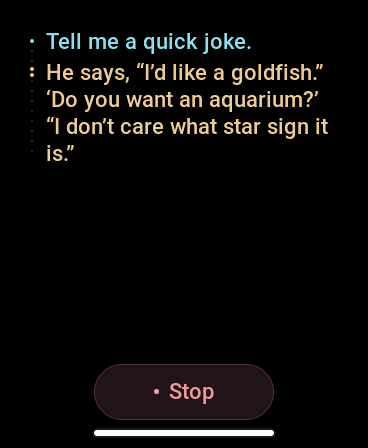
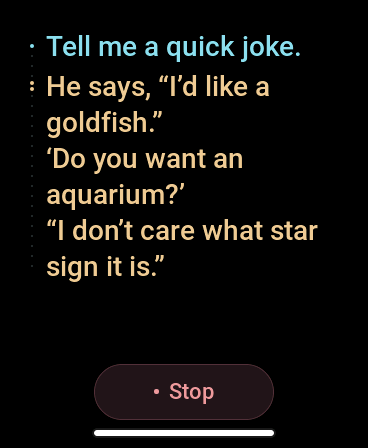
[ui] Enlarge opening Start buttons and transcript text

Changed region(s): [[0.1196, 0.0625, 0.8967, 0.625], [0.0598, 0.0938, 0.0897, 0.2188]]

diff --git a/examples/waveshare/LiveVoice.cpp b/examples/waveshare/LiveVoice.cpp
@@ -30,12 +30,13 @@ constexpr uint32_t background = 0x000000, foreground = 0xF0F0ED;
 constexpr uint32_t muted = 0xA0A4A9, user_color = 0x8EDCE9,
                    assistant_color = 0xEDCA93;
 constexpr int rail_gutter = 18, caption_line_space = 0, caption_turn_gap = 4;
+const lv_font_t &caption_font = live_font_28;
 
 bool caption_glyph(uint32_t codepoint) {
   lv_font_glyph_dsc_t dsc{};
   // Probe this static subset directly so an unsupported character does not
   // produce a missing-glyph warning on every streaming snapshot.
-  return live_font_22.get_glyph_dsc(&live_font_22, &dsc, codepoint, 0) &&
+  return caption_font.get_glyph_dsc(&caption_font, &dsc, codepoint, 0) &&
          !dsc.is_placeholder;
 }
 
@@ -235,7 +236,7 @@ lv_obj_t *button(lv_obj_t *parent, lv_event_cb_t cb, void *ctx) {
   lv_obj_set_style_bg_opa(b, LV_OPA_COVER, 0);
   lv_obj_set_style_border_width(b, 1, 0);
   lv_obj_set_style_border_opa(b, LV_OPA_COVER, 0);
-  lv_obj_set_style_radius(b, 28, 0);
+  lv_obj_set_style_radius(b, LV_RADIUS_CIRCLE, 0);
   lv_obj_set_flex_flow(b, LV_FLEX_FLOW_ROW);
   lv_obj_set_flex_align(b, LV_FLEX_ALIGN_CENTER, LV_FLEX_ALIGN_CENTER,
                         LV_FLEX_ALIGN_CENTER);
@@ -397,21 +398,21 @@ bool LiveVoice::run() {
       LV_EVENT_DRAW_MAIN, this);
   for (auto &label : transcripts_) {
     label = lv_label_create(transcript_area_);
-    lv_obj_set_size(label, LV_PCT(100), live_font_22.line_height);
+    lv_obj_set_size(label, LV_PCT(100), caption_font.line_height);
     lv_obj_set_x(label, rail_gutter);
     lv_label_set_text(label, "");
     lv_label_set_long_mode(label, LV_LABEL_LONG_CLIP);
-    lv_obj_set_style_text_font(label, &live_font_22, 0);
+    lv_obj_set_style_text_font(label, &caption_font, 0);
     lv_obj_set_style_text_line_space(label, caption_line_space, 0);
     lv_obj_add_flag(label, LV_OBJ_FLAG_HIDDEN);
   }
   transcript_revision_ = UINT32_MAX;
   transcript_page_ = {};
   transcript_width_ = transcript_height_ = 0;
-  auto *footer = lv_obj_create(content);
-  lv_obj_remove_style_all(footer);
-  lv_obj_remove_flag(footer, LV_OBJ_FLAG_SCROLLABLE);
-  lv_obj_set_size(footer, LV_PCT(100), 56);
+  footer_ = lv_obj_create(content);
+  lv_obj_remove_style_all(footer_);
+  lv_obj_remove_flag(footer_, LV_OBJ_FLAG_SCROLLABLE);
+  lv_obj_set_size(footer_, LV_PCT(100), 56);
   // Keep the footer's layout space, but parent the button to the screen so
   // its invisible touch padding is not clipped by the footer or content.
   control_ = button(
@@ -439,6 +440,7 @@ bool LiveVoice::run() {
   lv_label_set_text(control_text_, "Start");
   lv_obj_set_style_text_font(control_text_, &live_font_22, 0);
   control_mode_ = -1;
+  control_large_ = false;
   timer_ = lv_timer_create(
       [](lv_timer_t *timer) {
         static_cast<LiveVoice *>(lv_timer_get_user_data(timer))->refresh();
@@ -453,7 +455,7 @@ void LiveVoice::drawRail(lv_event_t *event) const {
   lv_area_t a;
   lv_obj_get_coords(rail_, &a);
   auto *layer = lv_event_get_layer(event);
-  const int center = live_font_22.line_height / 2;
+  const int center = caption_font.line_height / 2;
   for (int y = center; y < rail_height_; y += 10) {
     bool marker = false;
     for (unsigned i = 0; i < rail_count_; ++i)
@@ -490,6 +492,15 @@ void LiveVoice::refresh() {
   const bool show_usage = !testing && !s.busy && s.usage.started;
   const bool show_captions = connected || testing;
   const bool show_welcome = !show_captions && !show_usage;
+  const bool large_start = show_welcome && !s.busy;
+  if (large_start != control_large_) {
+    // Reserve only the compact footer during calls and on the usage page.
+    lv_obj_set_size(control_, large_start ? 260 : 180, large_start ? 80 : 56);
+    lv_obj_set_height(footer_, large_start ? 80 : 56);
+    lv_obj_set_style_text_font(control_text_,
+                              large_start ? &live_font_28 : &live_font_22, 0);
+    control_large_ = large_start;
+  }
   show(title_, show_usage);
   show(usage_status_, show_usage && !s.usage.seconds_final);
   show(welcome_, show_welcome);
@@ -554,7 +565,7 @@ void LiveVoice::refresh() {
   const int width = lv_obj_get_content_width(transcript_area_) - rail_gutter;
   const int height = lv_obj_get_content_height(transcript_area_);
   if (show_captions && width > 0 &&
-      height >= live_font_22.line_height &&
+      height >= caption_font.line_height &&
       (captions_changed || width != transcript_width_ ||
        height != transcript_height_)) {
     const int64_t render_started = esp_timer_get_time();
@@ -563,10 +574,10 @@ void LiveVoice::refresh() {
     attrs.max_width = width;
     attrs.line_space = caption_line_space;
     transcript_page_.update(
-        transcript_snapshot_, height, live_font_22.line_height,
+        transcript_snapshot_, height, caption_font.line_height,
         caption_line_space, caption_turn_gap, [&](const char *text) {
           return lv_text_get_next_line(text, LV_TEXT_LEN_MAX,
-                                       &live_font_22, nullptr, &attrs);
+                                       &caption_font, nullptr, &attrs);
         });
     unsigned line_index = 0;
     int y = 0;
@@ -585,7 +596,7 @@ void LiveVoice::refresh() {
         const size_t n =
             offset < length
                 ? lv_text_get_next_line(block.text + offset, LV_TEXT_LEN_MAX,
-                                        &live_font_22, nullptr, &attrs)
+                                        &caption_font, nullptr, &attrs)
                 : 0;
         char text[LIVE_TRANSCRIPT_BYTES];
         const size_t bytes = std::min(n, length - offset);
@@ -608,7 +619,7 @@ void LiveVoice::refresh() {
                          color))
           lv_obj_set_style_text_color(label, color, 0);
         lv_obj_remove_flag(label, LV_OBJ_FLAG_HIDDEN);
-        y += live_font_22.line_height;
+        y += caption_font.line_height;
         if (!bytes)
           break;
         offset += bytes;
@@ -622,7 +633,7 @@ void LiveVoice::refresh() {
     rail_count_ = transcript_page_.count;
     const int rail_height =
         std::max(0, y - caption_turn_gap -
-                        int(live_font_22.line_height) / 2 + 1);
+                        int(caption_font.line_height) / 2 + 1);
     rail_changed |= rail_height_ != rail_height;
     rail_height_ = rail_height;
     if (rail_changed)
@@ -691,12 +702,12 @@ void LiveVoice::testCaptions(bool glyphs) {
           if (codepoint == '\n')
             continue;
           lv_font_glyph_dsc_t dsc{};
-          if (!lv_font_get_glyph_dsc(&live_font_22, &dsc, codepoint, 0) ||
+          if (!lv_font_get_glyph_dsc(&caption_font, &dsc, codepoint, 0) ||
               dsc.is_placeholder)
             ++missing;
-          else if (dsc.ofs_y < -live_font_22.base_line ||
+          else if (dsc.ofs_y < -caption_font.base_line ||
                    dsc.ofs_y + dsc.box_h >
-                       live_font_22.line_height - live_font_22.base_line)
+                       caption_font.line_height - caption_font.base_line)
             ++clipped;
         }
       }
@@ -773,7 +784,7 @@ bool LiveVoice::close() {
     timer_ = nullptr;
   }
   title_ = status_ = usage_status_ = usage_ = transcript_area_ = control_ =
-      control_text_ = control_dot_ = welcome_ = welcome_title_ = rail_ =
+      control_text_ = control_dot_ = welcome_ = welcome_title_ = rail_ = footer_ =
           nullptr;
   rail_count_ = 0;
   rail_height_ = 0;
@@ -784,6 +795,7 @@ bool LiveVoice::close() {
     label = nullptr;
   transcript_revision_ = UINT32_MAX;
   control_mode_ = -1;
+  control_large_ = false;
   caption_test_until_ = 0;
   return true;
 }

diff --git a/examples/m5stack/main/View.cpp b/examples/m5stack/main/View.cpp
@@ -17,7 +17,8 @@ static_assert(LVGL_VERSION_MAJOR == 9 && LVGL_VERSION_MINOR == 6 &&
 namespace board {
 namespace {
 constexpr int CONTENT_HEIGHT = 176, LINE_WIDTH = 292;
-const lv_font_t *font = &live_font_18;
+const lv_font_t *caption_font = &live_font_22;
+bool control_large = false;
 lv_obj_t *welcome, *status_label, *captions, *usage, *button, *button_text;
 lv_obj_t *lines[10], *dots[10], *values[live_usage_view::ROW_COUNT];
 live_caption_view::Page page;
@@ -45,7 +46,7 @@ lv_obj_t *label(lv_obj_t *parent, int x, int y, int w, uint32_t color) {
   auto *obj = lv_label_create(parent);
   lv_obj_set_pos(obj, x, y);
   lv_obj_set_width(obj, w);
-  lv_obj_set_style_text_font(obj, font, 0);
+  lv_obj_set_style_text_font(obj, &live_font_18, 0);
   lv_obj_set_style_text_color(obj, lv_color_hex(color), 0);
   lv_obj_set_style_text_line_space(obj, 0, 0);
   lv_label_set_long_mode(obj, LV_LABEL_LONG_CLIP);
@@ -54,7 +55,8 @@ lv_obj_t *label(lv_obj_t *parent, int x, int y, int w, uint32_t color) {
 }
 bool glyph(uint32_t codepoint) {
   lv_font_glyph_dsc_t dsc{};
-  return font->get_glyph_dsc(font, &dsc, codepoint, 0) && !dsc.is_placeholder;
+  return caption_font->get_glyph_dsc(caption_font, &dsc, codepoint, 0) &&
+         !dsc.is_placeholder;
 }
 void press(lv_event_t *) {
   live_esp32_status_t state{};
@@ -70,10 +72,10 @@ void render_captions() {
   auto next_line = [&](const char *value) {
     lv_text_attributes_t attributes{};
     attributes.max_width = LINE_WIDTH;
-    return lv_text_get_next_line(value, LV_TEXT_LEN_MAX, font, nullptr,
+    return lv_text_get_next_line(value, LV_TEXT_LEN_MAX, caption_font, nullptr,
                                  &attributes);
   };
-  page.update(snapshot, CONTENT_HEIGHT, font->line_height, 0, 2, next_line);
+  page.update(snapshot, CONTENT_HEIGHT, caption_font->line_height, 0, 2, next_line);
   unsigned index = 0;
   int y = 0;
   for (unsigned i = 0; i < page.count; ++i) {
@@ -100,13 +102,13 @@ void render_captions() {
       lv_obj_set_y(lines[index], y);
       lv_obj_set_style_text_color(lines[index], color, 0);
       show(lines[index], true);
-      lv_obj_set_y(dots[index], y + font->line_height / 2 - 2);
+      lv_obj_set_y(dots[index], y + caption_font->line_height / 2 - 2);
       lv_obj_set_style_bg_color(dots[index],
                                 first ? color : lv_color_hex(0x243236), 0);
       show(dots[index], true);
       first = false;
       ++index;
-      y += font->line_height;
+      y += caption_font->line_height;
       if (!n)
         break;
       offset += n;
@@ -147,7 +149,8 @@ void view_init() {
   usage = area(screen, 12, 10, 296, CONTENT_HEIGHT);
   for (unsigned i = 0; i < std::size(lines); ++i) {
     lines[i] = label(captions, 12, 0, LINE_WIDTH, 0xE5C78F);
-    lv_obj_set_height(lines[i], font->line_height);
+    lv_obj_set_height(lines[i], caption_font->line_height);
+    lv_obj_set_style_text_font(lines[i], caption_font, 0);
     dots[i] = area(captions, 1, 0, 3, 3);
     lv_obj_set_style_radius(dots[i], LV_RADIUS_CIRCLE, 0);
     lv_obj_set_style_bg_opa(dots[i], LV_OPA_COVER, 0);
@@ -162,7 +165,8 @@ void view_init() {
   button = lv_button_create(screen);
   lv_obj_set_size(button, 156, 40);
   lv_obj_set_pos(button, 82, 193);
-  lv_obj_set_style_radius(button, 20, 0);
+  lv_obj_set_style_radius(button, LV_RADIUS_CIRCLE, 0);
+  control_large = false;
   lv_obj_set_style_shadow_width(button, 0, 0);
   lv_obj_set_style_border_width(button, 1, 0);
   lv_obj_set_ext_click_area(button, 10);
@@ -181,6 +185,14 @@ void view_update() {
     return;
   const bool transcripts = state.active;
   const bool final = !state.busy && state.usage.started;
+  const bool large_start = !transcripts && !final && !state.busy;
+  if (large_start != control_large) {
+    lv_obj_set_size(button, large_start ? 240 : 156, large_start ? 64 : 40);
+    lv_obj_set_pos(button, large_start ? 40 : 82, large_start ? 169 : 193);
+    lv_obj_set_style_text_font(button_text,
+                              large_start ? &live_font_22 : &live_font_18, 0);
+    control_large = large_start;
+  }
   show(welcome, !transcripts && !final);
   show(status_label, !transcripts && !final);
   show(captions, transcripts);

diff --git a/examples/waveshare/LiveVoice.hpp b/examples/waveshare/LiveVoice.hpp
@@ -31,7 +31,7 @@ private:
   lv_obj_t *usage_ = nullptr;
   lv_obj_t *usage_values_[live_usage_view::ROW_COUNT]{};
   lv_obj_t *usage_note_ = nullptr;
-  // More than the physical display can fit at the fixed 22-pixel font size.
+  // More than the physical display can fit at the 28-pixel caption font size.
   lv_obj_t *transcripts_[24]{};
   lv_obj_t *transcript_area_ = nullptr;
   lv_obj_t *rail_ = nullptr;
@@ -45,6 +45,8 @@ private:
   uint32_t caption_test_until_ = 0, caption_test_step_ = 0;
   bool caption_glyph_test_ = false;
   uint32_t caption_test_overflows_ = 0, caption_test_render_max_us_ = 0;
+  lv_obj_t *footer_ = nullptr;
+  bool control_large_ = false;
   lv_obj_t *control_ = nullptr, *control_text_ = nullptr,
            *control_dot_ = nullptr;
   int control_mode_ = -1;

diff --git a/examples/common/fonts/README.md b/examples/common/fonts/README.md
@@ -2,7 +2,7 @@
 
 The Waveshare and M5Stack Live Voice apps use **Roboto Medium 2.138**, licensed
 under [Apache-2.0](LICENSE). These are generated, uncompressed 4-bpp LVGL bitmap
-subsets. Waveshare uses 18, 22, and 28 px; M5Stack uses 16 and 18 px. The SDK and
+subsets. Waveshare uses 18, 22, and 28 px; M5Stack uses 16, 18, and 22 px. The SDK and
 screenless Sonatino app do not depend on these fonts. See [NOTICE](NOTICE) for
 copyright and modification attribution.
 
@@ -11,8 +11,8 @@ punctuation (including smart quotes, ellipsis, and dashes), euro/trademark,
 up/down arrows, and mathematical minus. Narrow no-break space uses the
 thin-space bitmap; nonbreaking hyphen uses the hyphen bitmap. Both retain their
 original Unicode codepoints. Line heights at 16/18/22/28 px are 21/23/27/36 px,
-including accent and descender bounds. Caption line spacing remains zero and
-turn spacing remains 4 px.
+including accent and descender bounds. Captions use 28 px on Waveshare and
+22 px on M5Stack. Caption line spacing remains zero; turn spacing is 4 px on Waveshare and 2 px on M5Stack.
 
 Before pagination, a display-only transcript copy goes through `CaptionText.hpp`:
 

diff --git a/examples/m5stack/README.md b/examples/m5stack/README.md
@@ -14,12 +14,14 @@ I²S conversion and the screen layout live here. The standalone Wi-Fi manager
 is shared with Sonatino under `examples/common`.
 It does not install the Waveshare launcher or use `esp_peer`.
 
-The dark UI has one enlarged touch target around a compact Start/Stop button.
+The dark UI opens with a 240 × 64-pixel Start button and a 22-pixel label.
+During calls and on the usage page, the control is a compact 156 × 40 pixels.
+Both sizes retain 10 pixels of additional invisible touch padding.
 Cyan user captions and warm sand assistant captions fill a fixed page, then clear
 and continue from the top. At session end, the screen shows model names, voice
 seconds, and backend token counts. Captions preserve characters available in the
-18-pixel [Roboto font](../common/fonts/README.md) and simplify unsupported Unicode with the shared ASCII
-fallback. The original SDK transcript remains intact.
+22-pixel [Roboto font](../common/fonts/README.md) and simplify unsupported Unicode
+with the shared ASCII fallback. The original SDK transcript remains intact.
 
 ## Build and flash
 

diff --git a/examples/waveshare/README.md b/examples/waveshare/README.md
@@ -22,8 +22,11 @@ hide, leaving the colored transcript and Stop button. Leaving the app ends the c
 The Dot rail layout uses a black background, cyan user captions, and warm
 sand assistant captions. A narrow dotted rail marks each turn with one user dot
 or two assistant dots; no speaker labels are needed. Wrapped lines have no extra
-line spacing, and turns have a compact 4-pixel gap. The centered 180 × 56 Start/Stop
-button uses a tinted surface and a clearly colored label and dot.
+line spacing, and turns have a compact 4-pixel gap. Captions use 28-pixel Roboto.
+The opening Start button is 260 × 80 pixels with a 28-pixel label. During calls
+and on the usage page, the control is 180 × 56 pixels to preserve content space.
+Both sizes use a tinted surface, a clearly colored label and dot, and 20 pixels
+of additional invisible touch padding.
 The launcher's clock/status strip is hidden while the app is open; the bottom
 navigation gesture remains available.
 Captions keep Unicode characters covered by the bundled font and fall back to

diff --git a/docs/screenshots/README.md b/docs/screenshots/README.md
@@ -2,7 +2,8 @@
 
 These PNGs are direct framebuffer captures from Live Voice running on a physical
 Waveshare ESP32-S3-Touch-AMOLED-1.8 V2 on October 15, 2026. They show the full
-368 × 448 display with the Dot rail layout and shared Roboto UI fonts. The launcher status bar is hidden;
+368 × 448 display with the Dot rail layout, 28-pixel Roboto captions, and an
+enlarged 260 × 80-pixel opening Start button. The launcher status bar is hidden;
 its bottom navigation gesture is retained. They are not camera photographs and do not
 measure physical display brightness.
 
